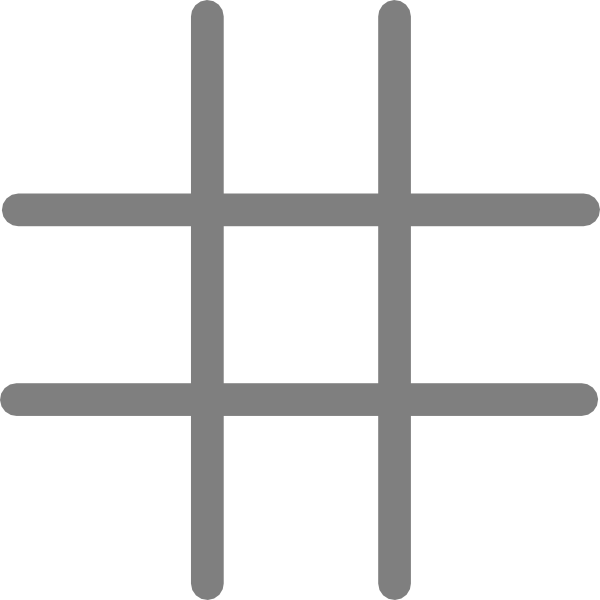
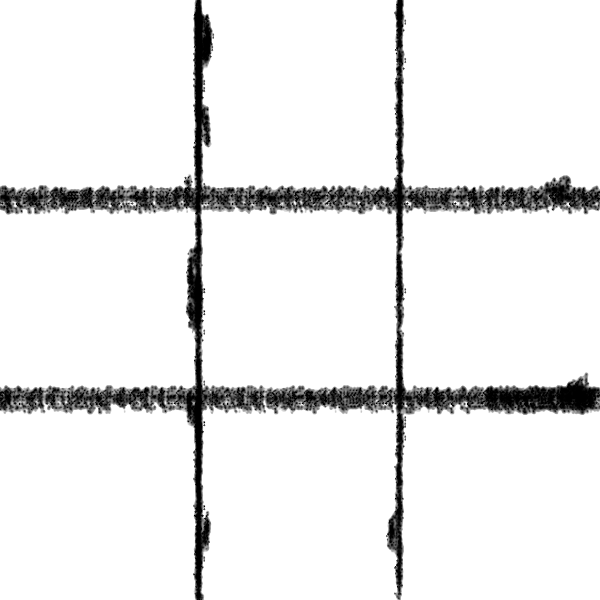
new strike through added
visit the version1.1,html for more info

Changed region(s): [[0.0, 0.0, 1.0, 1.0]]

diff --git a/script/script.js b/script/script.js
@@ -48,6 +48,58 @@ $(document).ready(() => {
     };
 
     var winModel_val = Object.values(winModel_obj);
+    //console.log(winModel_val);
+    //side to side
+    var val123 = JSON.stringify(winModel_val[0][0]);
+    var val456 = JSON.stringify(winModel_val[0][1]);
+    var val789 = JSON.stringify(winModel_val[0][2]);
+    //top to buttom
+    var val147 = JSON.stringify(winModel_val[1][0]);
+    var val258 = JSON.stringify(winModel_val[1][1]);
+    var val369 = JSON.stringify(winModel_val[1][2]);
+    //criss cross
+    var val159 = JSON.stringify(winModel_val[2][0]);
+    var val357 = JSON.stringify(winModel_val[2][1]);
+
+    function stripes(Stringincluded) {
+      switch (Stringincluded) {
+        //side to side
+        case val123:
+          $(".wrapper").css({ "background-image": 'url("media/123.png")' });
+          break;
+
+        case val456:
+          $(".wrapper").css({ "background-image": 'url("media/456.png")' });
+          break;
+
+        case val789:
+          $(".wrapper").css({ "background-image": 'url("media/789.png")' });
+          break;
+
+        //top to buttom
+        case val147:
+          $(".wrapper").css({ "background-image": 'url("media/147.png")' });
+          break;
+
+        case val258:
+          $(".wrapper").css({ "background-image": 'url("media/258.png")' });
+          break;
+
+        case val369:
+          $(".wrapper").css({ "background-image": 'url("media/369.png")' });
+          break;
+
+        //criss cross
+        case val159:
+          $(".wrapper").css({ "background-image": 'url("media/159.png")' });
+          break;
+
+        case val357:
+          $(".wrapper").css({ "background-image": 'url("media/357.png")' });
+          break;
+      }
+    }
+
     function WhoWon(player, playerName, winModel_val) {
         for (let index = 0; index < winModel_val.length; index++) {
             let element = winModel_val[index];
@@ -55,17 +107,13 @@ $(document).ready(() => {
                 var element2 = element[index2];
                 var included = element2.filter((value) => player.includes(value));
                 if (JSON.stringify(included) == JSON.stringify(element2)){
-                    var write = playerName + " won";
-                    console.log(write + JSON.stringify(included));
+                    var write = playerName + " won ";
+                    //console.log(write + JSON.stringify(included));
                     $(".winingText").css({"display":"block"});
                     $(".winingText").html(playerName + " won! click on the restart button below to restart the game.");
-                    // $(".wrapper div").val("");
-                    // $(".wrapper div").css({ "background-image": "", "background-size": "196px 194px" });
-                    // $(".turn-x").css({ "background-color": "#C1C1C1" });
-                    // $(".turn-o").css({ "background-color": "white" });
-                    // $(".game").css({ display: "none" });
-                     $(".box").off("click");
-                    
+                    $(".box").off("click");
+                    var Stringincluded = JSON.stringify(included);
+                    stripes(Stringincluded);
                 }
             }
         }

diff --git a/version-1.1.html b/version-1.1.html
@@ -1,0 +1,26 @@
+<!DOCTYPE html>
+<html lang="en">
+<head>
+    <meta charset="UTF-8">
+    <meta name="viewport" content="width=device-width, initial-scale=1.0">
+    <title>Version 1.1 Changelog</title>
+    <p>release date:- 07.06.2020</p>
+    </head>
+    
+    <body>
+        <h1>Version 1.1 Changelog</h1>
+        <ul>
+            <li>
+                winner's messege shows up in bigger fonts
+            </li>
+            <li>
+                logic to detect winner add strike throught the winner's marker has been added. 
+            </li>
+            <li>
+                few bug fixes
+            </li>
+        </ul>
+        <br>
+        <a href="all-versions.html">List of all released versions</a>
+        <br>
+</html>

diff --git a/version-1.0.html b/version-1.0.html
@@ -1,0 +1,28 @@
+<!DOCTYPE html>
+<html lang="en">
+<head>
+    <meta charset="UTF-8">
+    <meta name="viewport" content="width=device-width, initial-scale=1.0">
+    <title>Version 1.0 Changelog</title>
+    <p>release date:- 03.06.2020</p>
+</head>
+<body>
+    <h1>Version 1.0 Changelog</h1>
+    <ul>
+        <li>
+            the game works now.
+        </li>
+        <li>
+            logic to detect winner or looser has has been added
+        </li>
+        <li>
+            few bug fixes
+        </li>
+    </ul>
+    <br>
+    <a href="all-versions.html">List of all released versions</a>
+    <br>
+    
+
+</body>
+</html>

diff --git a/style/style.css b/style/style.css
@@ -9,7 +9,7 @@
 
 .wrapper div{
     border: 2px black solid;
-    border-radius: 20px;
+    border-radius: 10px;
 }
 
 .wrapper{
@@ -22,8 +22,8 @@
     grid-template-columns: repeat(3, 1fr);
     grid-gap: 5px;
     grid-auto-rows: minmax(50px, auto);
-    /* border: 2px black solid;
-    border-radius: 20px; */
+    /* border: 2px black solid; */
+    /* border-radius: 20px; */
     /* background-image: url(media/board.png);
     background-size: 600px 600px; */
 
@@ -96,3 +96,6 @@
     padding: 2%;
 }
 
+.winingText{
+    font-size: 35px;
+}

diff --git a/all-versions.html b/all-versions.html
@@ -1,0 +1,20 @@
+<!DOCTYPE html>
+<html lang="en">
+<head>
+    <meta charset="UTF-8">
+    <meta name="viewport" content="width=device-width, initial-scale=1.0">
+    <title>All versions</title>
+</head>
+<body>
+    <h1>A list of all released versions</h1>
+    <br>
+    <ul>
+        <li>
+            <a href="version-1.0.html">version 1.0</a>
+        </li>
+        <li>
+            <a href="version-1.1.html">version 1.1</a>
+        </li>
+    </ul>
+</body>
+</html>

diff --git a/index.html b/index.html
@@ -48,5 +48,8 @@
 
 </div>
 <a href="about.html">about</a>
+<br>
+<a href="version-1.0.html">Version 1.0</a>
+<br>
 </body>
 </html>
